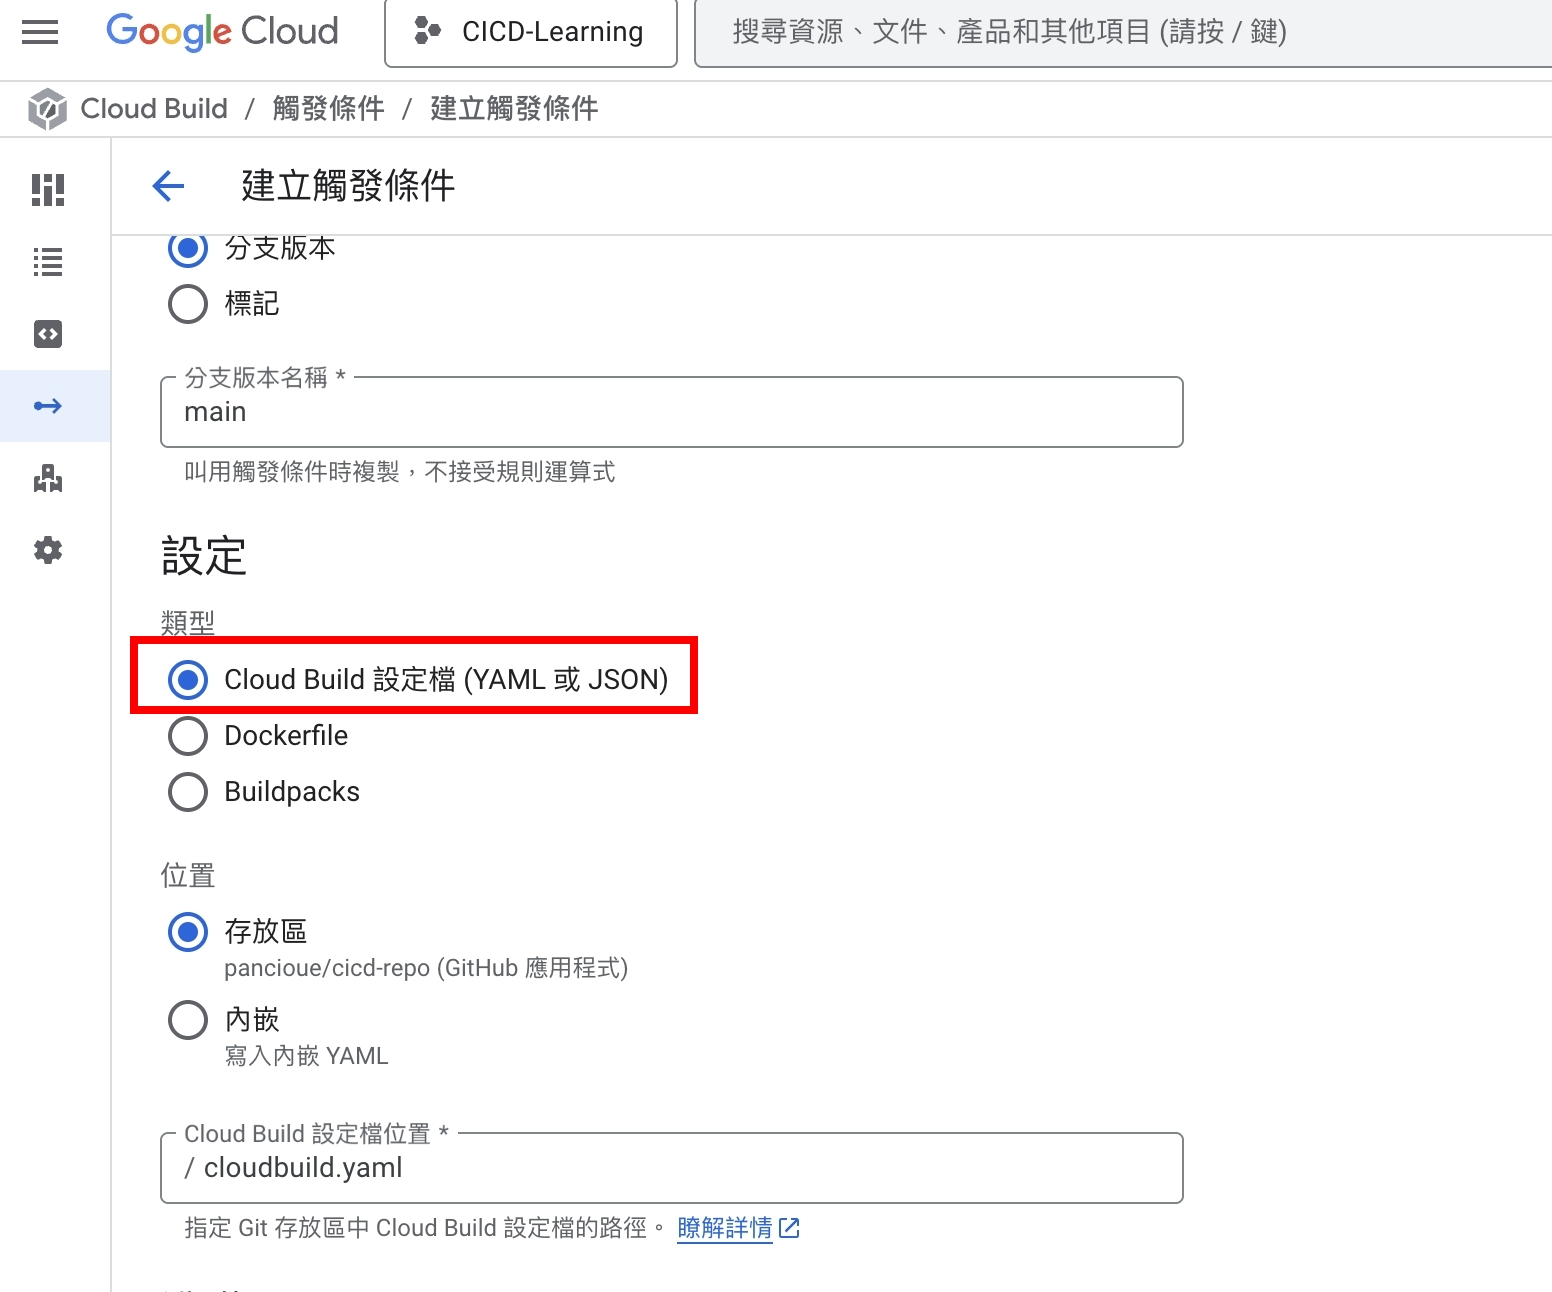
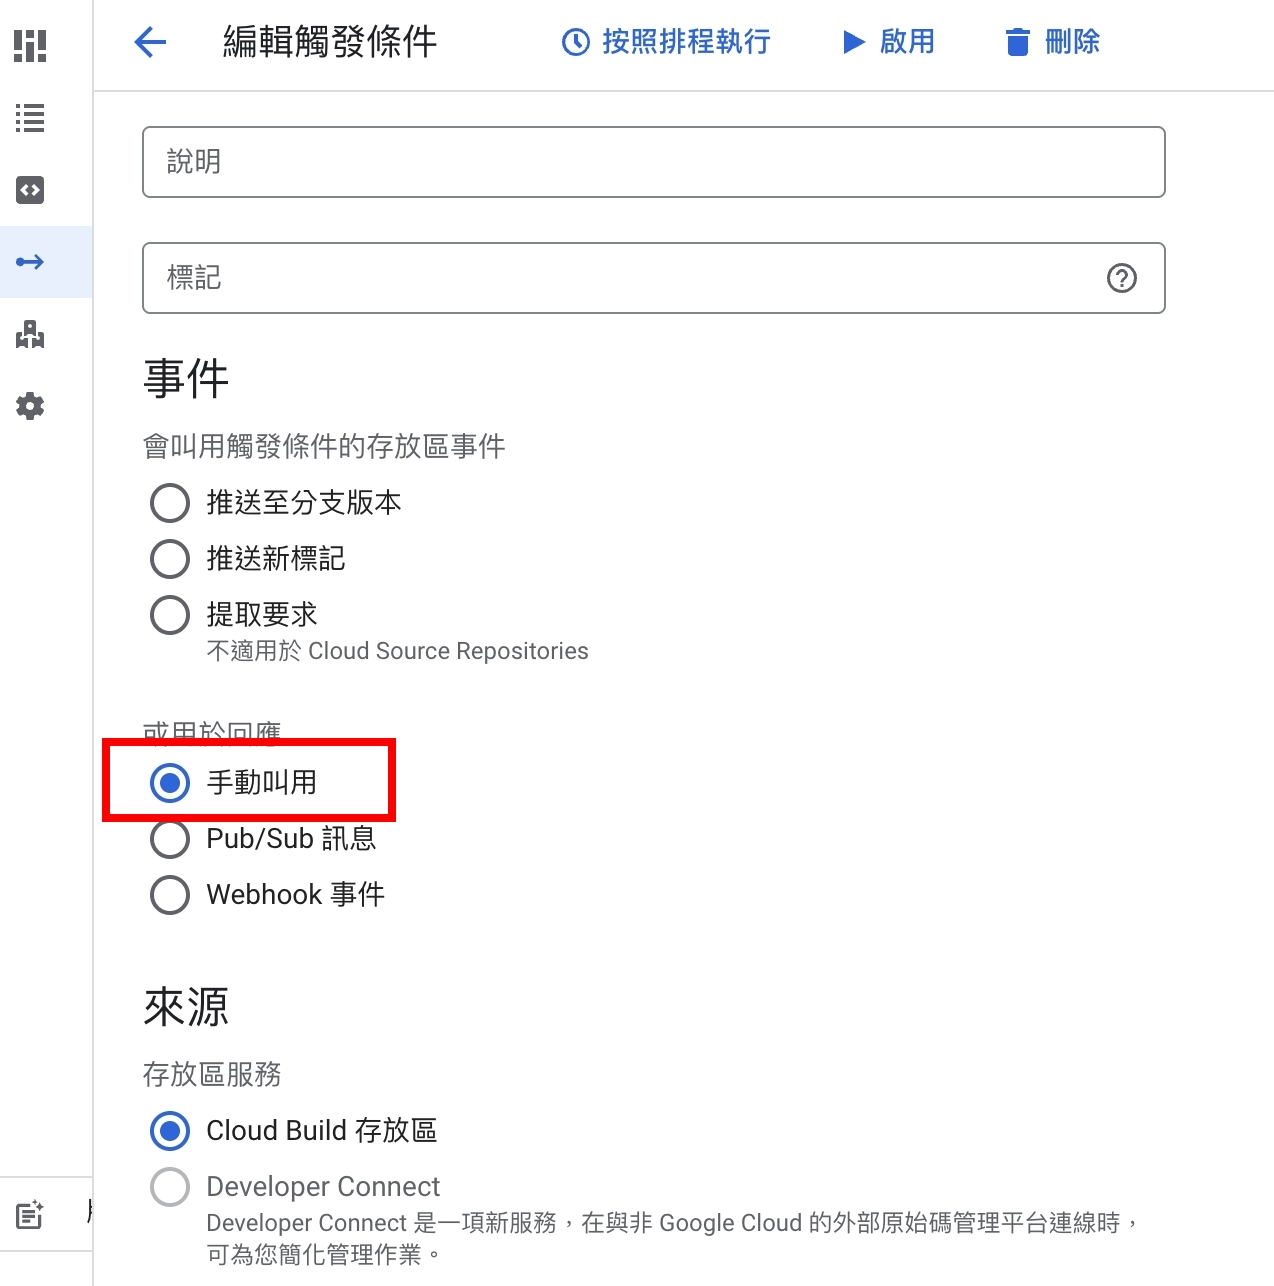
docs: update README.md and add route to test manual deployment

diff --git a/app/routes/web.php b/app/routes/web.php
@@ -22,3 +22,7 @@ Route::get('/test', function () {
 Route::get('/one', function () {
     return response('one', 200);
 });
+
+Route::get('/two', function () {
+    return response('two', 200);
+});

diff --git a/README.md b/README.md
@@ -357,41 +357,39 @@ gcloud run services update-traffic YOUR_SERVICE \
 
 ![發佈版本標籤](/image/deploy_via_release/trigger_tag.jpg)
 
-這樣一來只有當發布 `v.` 開頭的 tag 才會部署
+這樣一來當發布 `v.` 開頭的 tag 時就會部署  
+值得一提的是，使用這個部署方式，`ci-release.yml`(release types: [published])
+跟 Cloud Build 會同時觸發。這種情況下，`ci-release.yml` 似乎意義不大
+
 
 ## 手動部署
-如果不想要自動合進main就部署，可以改成手動部署
 先到Cloud Build / 觸發條件 把剛才的觸發條件先停用
 建立新的觸發條件選擇手動叫用
-
-
-* 這邊要選擇 Cloud Build 設定欓做示範，例如 Canary deployment + Smoke test
-  👉 完整執行你定義的 pipeline
-
-![manul_deploy](/image/manul_deploy/manul_deploy_config.jpg)
-
-新增了 cloudbuild.yaml 後就可以手動部署看看
-![manul_deploy](/image/manul_deploy/manul_deploy_choose_branch.jpg)
+![手動叫用部署](/image/manul_deploy/manul_deploy_config.jpg)
 
 UI手動建立似乎沒有法加入tag選項，預設是抓 latest 版號
-(不過使用 CLI 應該可以指定 tag，沒試過)
+(不過使用 CLI 應該可以指定 tag)
+![manul_deploy](/image/manul_deploy/manul_deploy_choose_branch.jpg)
 
+## 自定義 pipeline
+* 這邊Cloud Build 設定欓選擇自定義的 cloudbuild.yaml，示範 Canary deployment + Smoke test
+  👉 完整執行你定義的 pipeline
+![自定義pipeline](/image/cloudbuild_pipeline/cloudbuild_pipeline.jpg)
+
+新增了 cloudbuild.yaml 後就可以部署看看
+- - -
 為了讓 Cloud Build 可以讀取 GHCR.io 必須先設定 Artifact Registry
 ![artifact registry](/image/manul_deploy/artifact_registry.jpg)
 上面大概是必須要填的欄位，其中驗證模式比較麻煩，
 密鑰需要新增，這裡填上面的 GHCR 時得到的 key
 ![GHCR key](/image/manul_deploy/ghcr_key.jpg)
 
+
 ### cloudbuild.yaml
 * 可以指定 Image 版本，這邊起初是用 latest 測試，不過這邊有個坑，可以參考下面
 * 這份 `cloudbuild.yaml` 包含了 
   `Canary deployment + Smoke test`
-<<<<<<< Updated upstream
-  這裡算是卡關滿久的，cloudbuild.yaml 是很容易卡關的地方
 * 當中有幾個步驟是打印 _route:list_ 與清除快取 _route:clear_，是中途debug用，不是必要的，不過就留著供日後參考用
-=======
-  cloudbuild.yaml 是很容易卡關的地方，
->>>>>>> Stashed changes
 
 ### 容易誤入的坑
 * cloudbuild.yaml中
@@ -410,10 +408,10 @@ UI手動建立似乎沒有法加入tag選項，預設是抓 latest 版號
     --region "asia-east1" \
     --format="json(status)"
   ```
-* 不管怎麼試都打不通/healthz，可能 cloud run有前面擋掉這路由
+* 不管怎麼試都打不通 `/healthz`，可能 cloud run有前面擋掉這路由
 
-打通這裡很辛苦，不太優雅，不太建議走這條路
-若要用手動部署，可以試試直接上傳到 GCP的 Artifact Registry 可能會簡單點
+打通這裡很辛苦，不太優雅，
+如果要使用自定義的 pipeline，可以試試直接上傳到 GCP的 Artifact Registry 可能會簡單點
 
 ### 名詞解釋
 * Canary deployment
